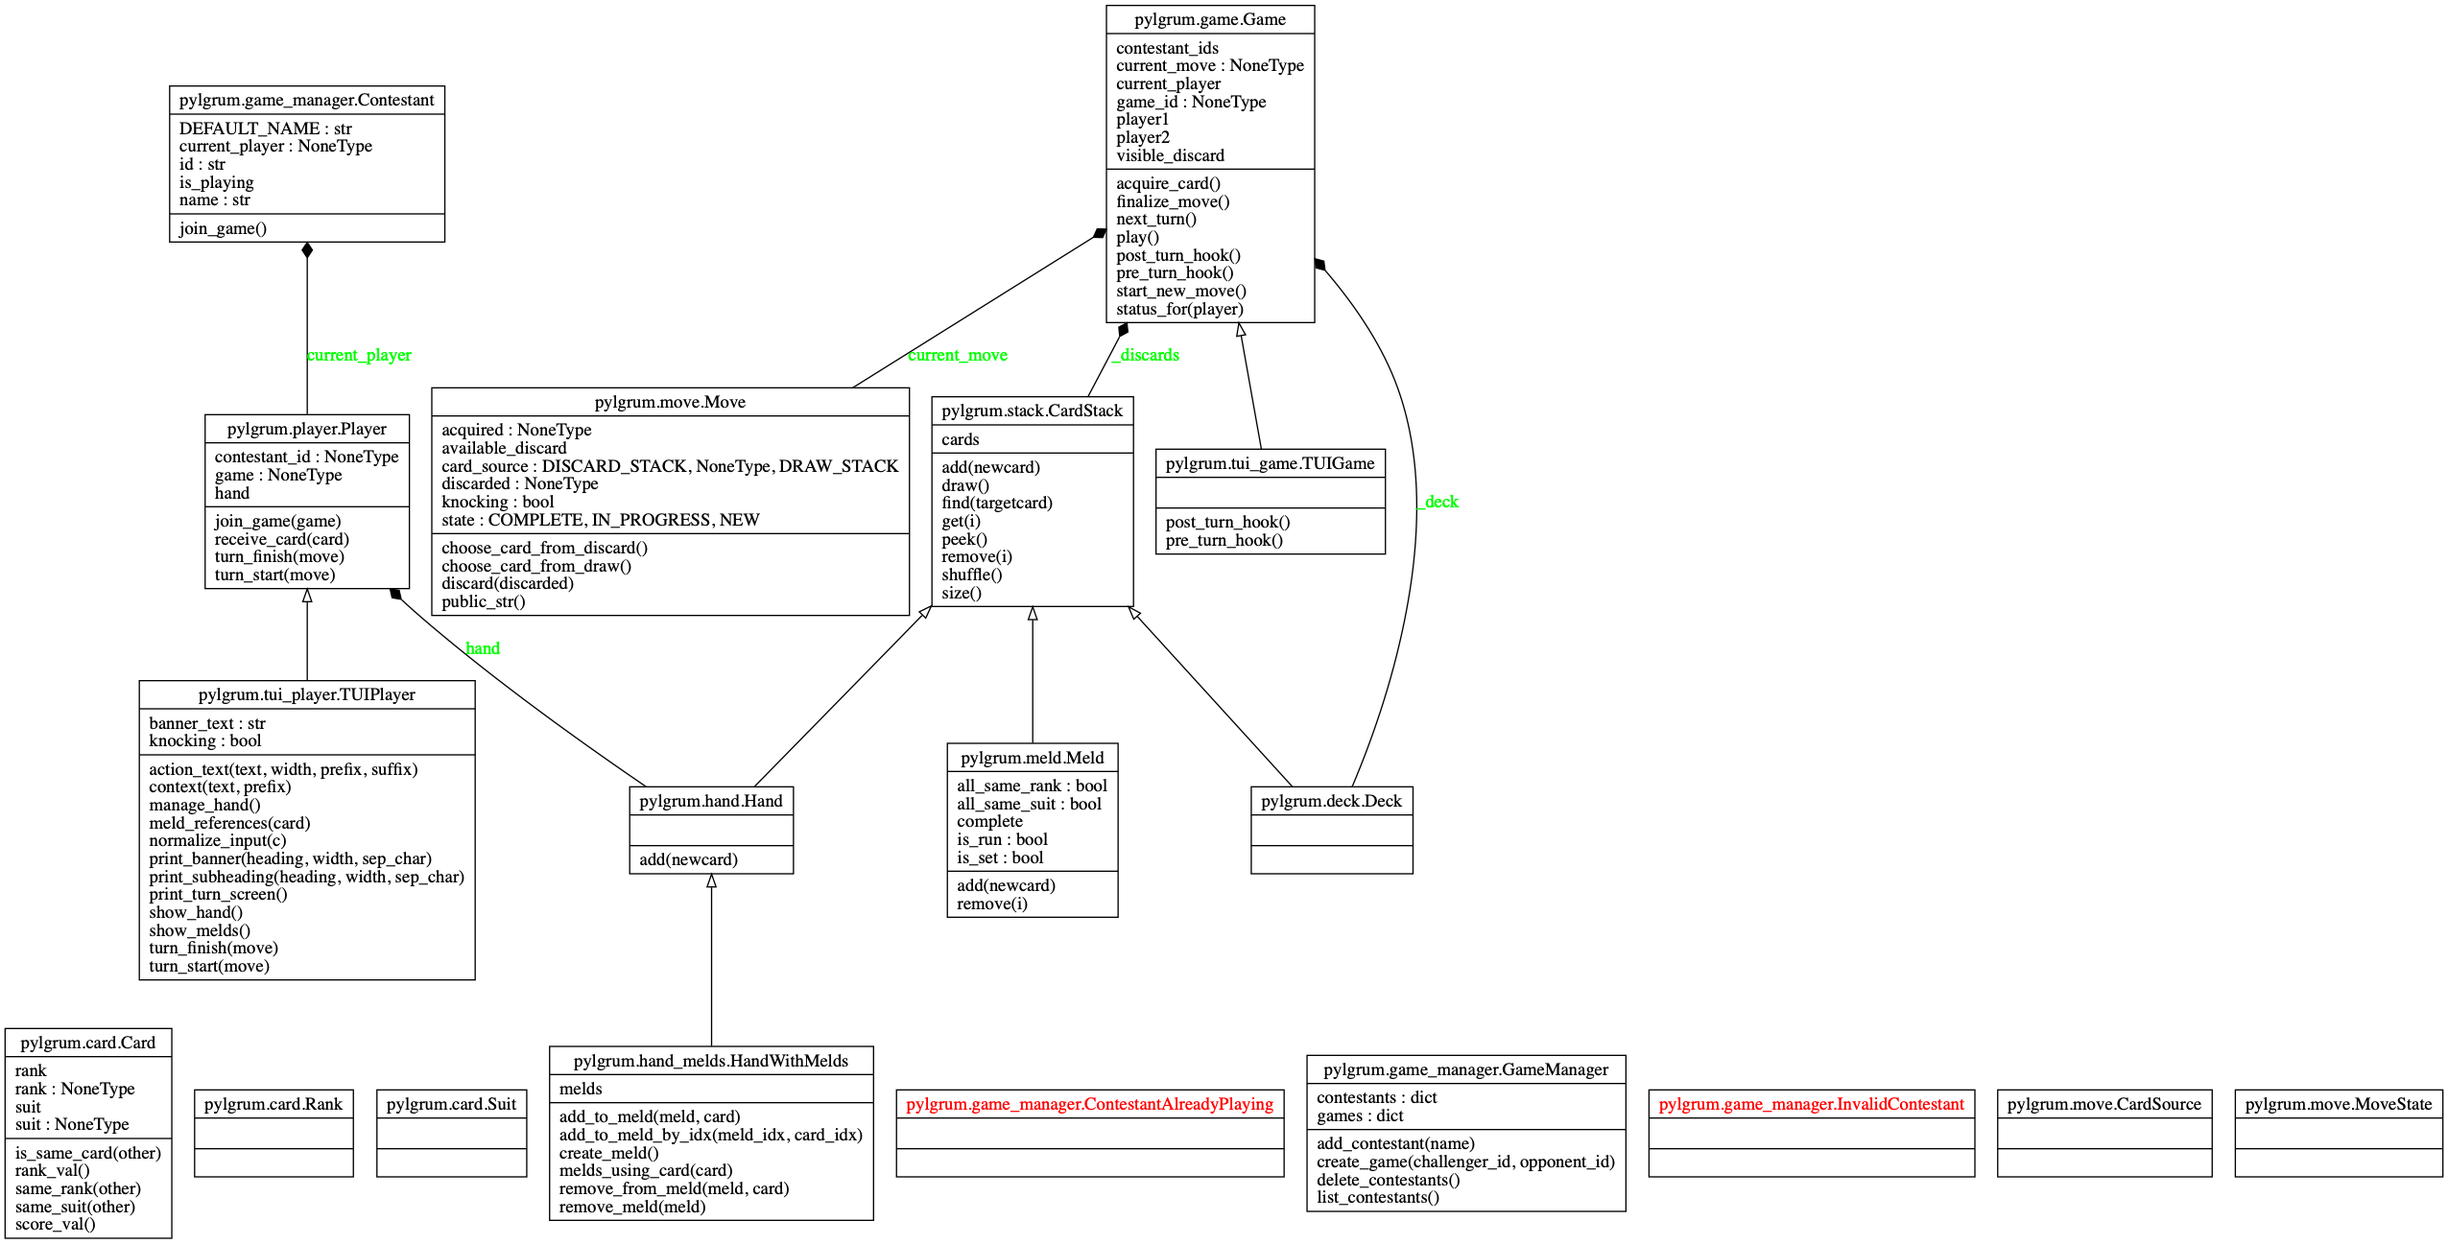
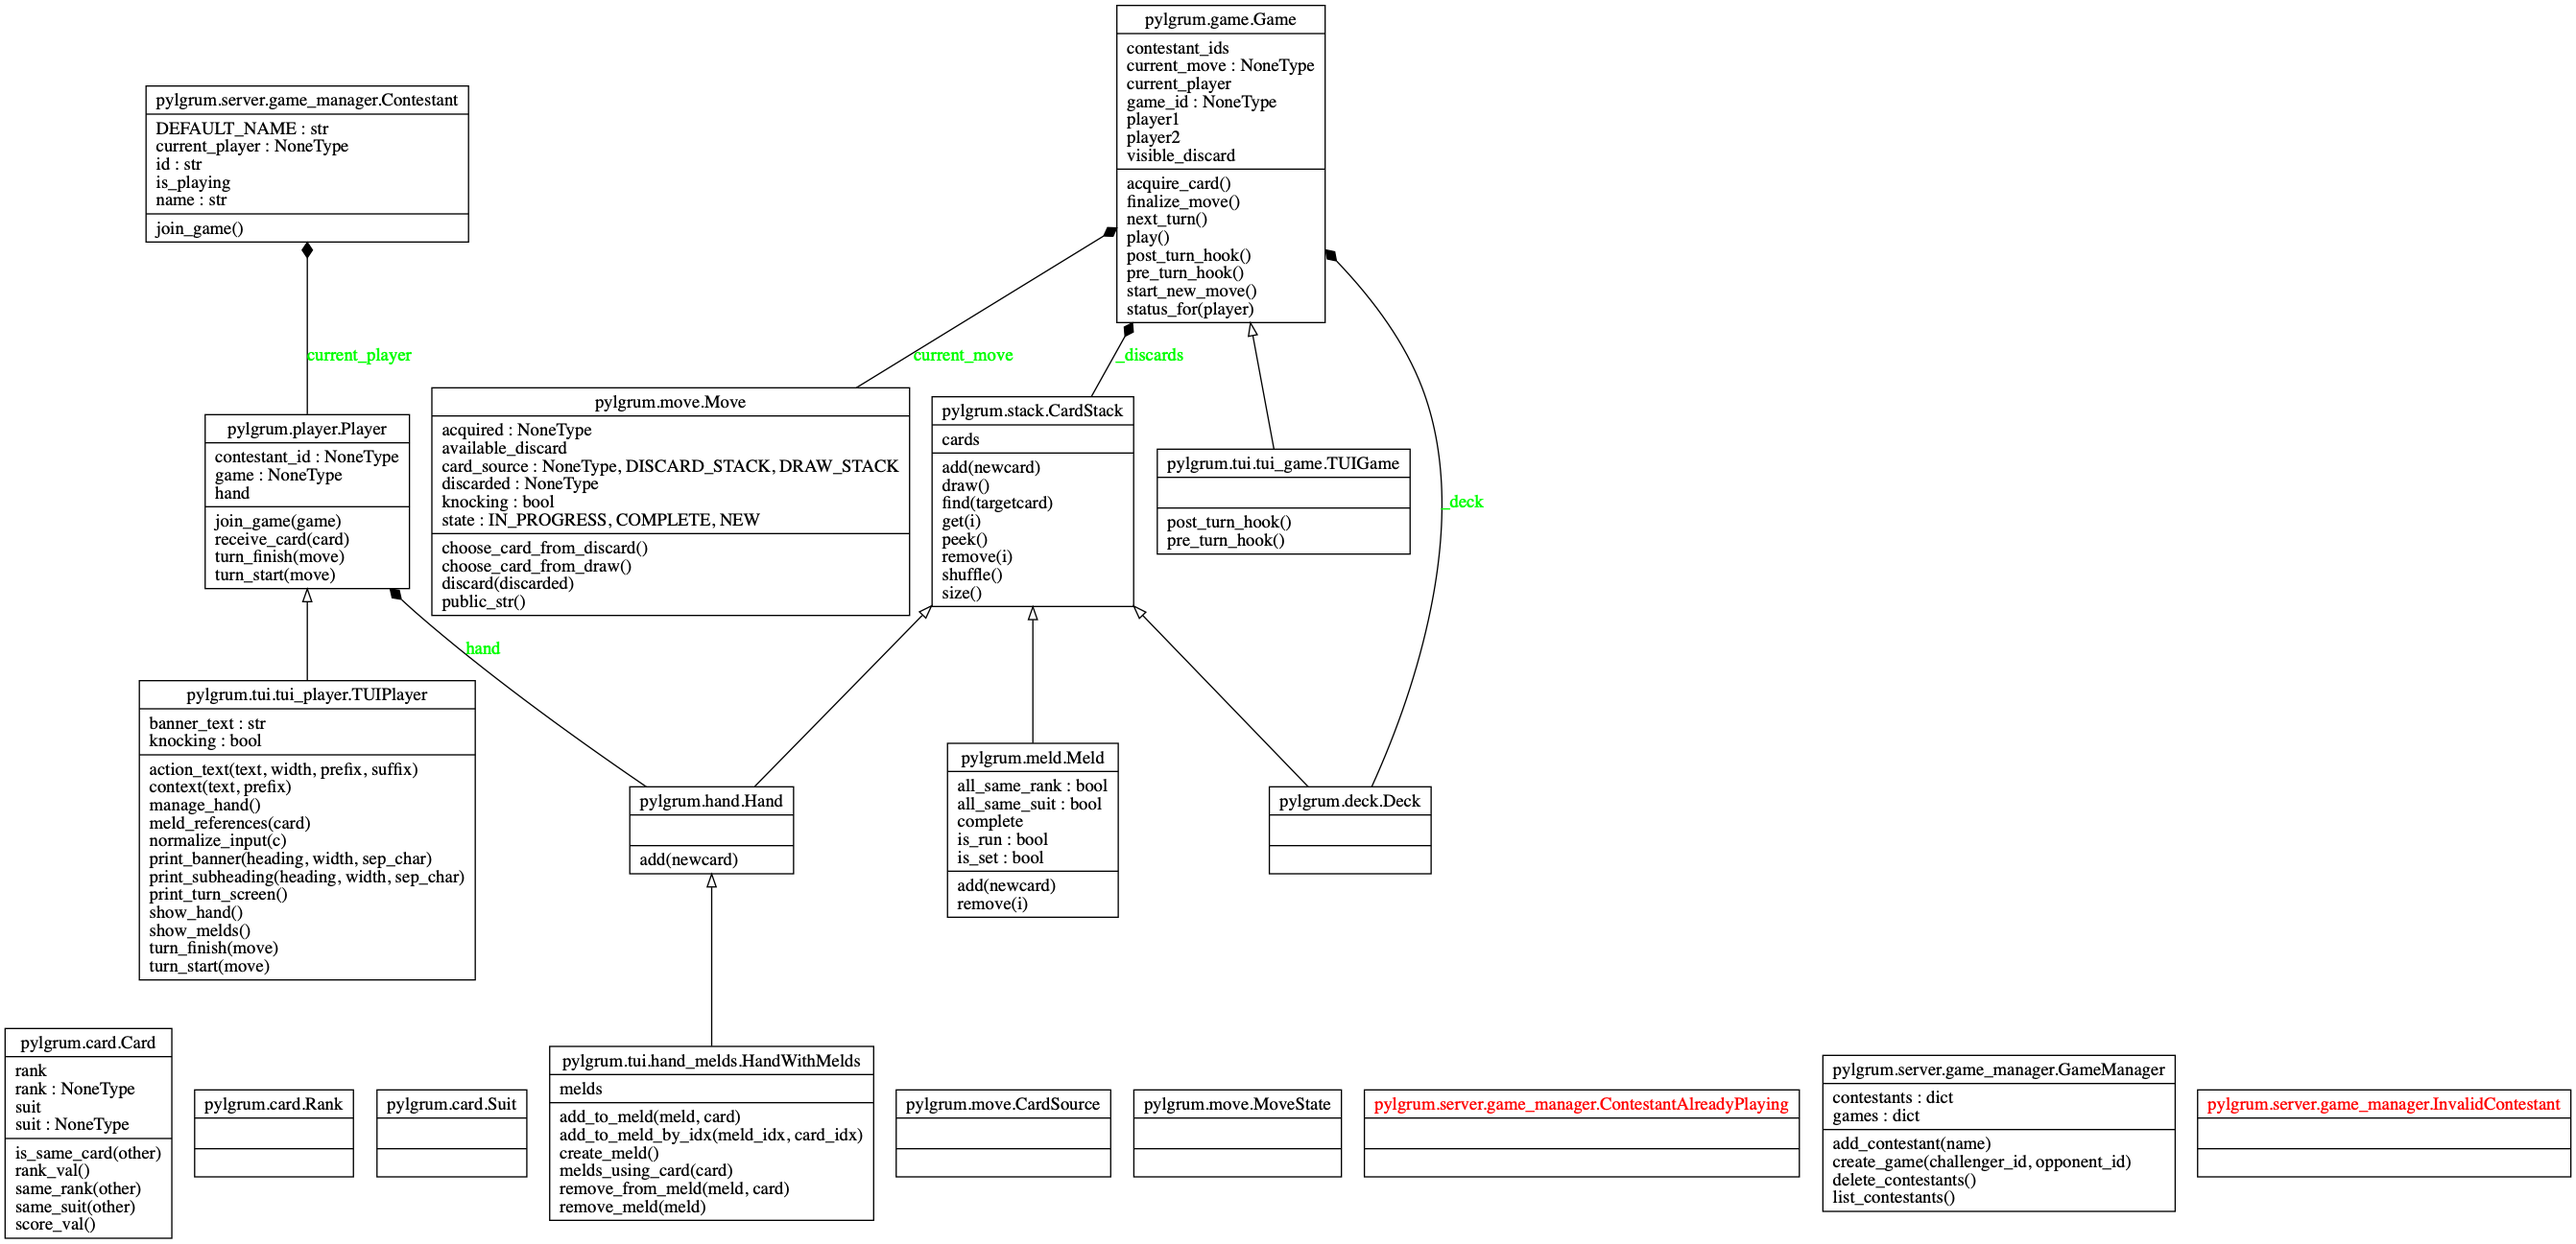
restructure into subpackages, clean up import convention

diff --git a/pylgrum/__init__.py b/pylgrum/__init__.py
@@ -25,23 +25,3 @@ Primary classes:
 Note: this package uses PEP-484 style type annotations, and thus needs
 python >=3.5.
 """
-
-#pylint: disable=wildcard-import
-from .card import *
-from .stack import *
-from .errors import *
-from .deck import *
-from .hand import *
-from .game import *
-from .player import *
-from .move import *
-from .meld import *
-from .hand_melds import *
-from .tui_player import *
-from .tui_game import *
-from .game_manager import *
-from .pylgrum_server import *
-
-__all__ = ['Suit', 'Rank', 'Card', 'CardStack', 'PylgrumError',
-           'CardNotFoundError', 'Deck', 'Player', 'Contestant',
-           'GameManager']

diff --git a/pylgrum/tui/tui_player.py b/pylgrum/tui/tui_player.py
@@ -1,8 +1,13 @@
 """Text UI (TUI) implementation of Gin Rummy player."""
 
-from pylgrum import Player, Hand, HandWithMelds, Card, Move, \
-    InvalidMeldError
-from pylgrum.tui_util import clear_screen
+from pylgrum.card import Card
+from pylgrum.hand import Hand
+from pylgrum.move import Move
+from pylgrum.player import Player
+from pylgrum.tui.hand_melds import HandWithMelds
+from pylgrum.errors import InvalidMeldError
+
+from pylgrum.tui.tui_util import clear_screen
 
 class TUIPlayer(Player):
     """Terminal-based interface for a human Gin Rummy player."""

diff --git a/pylgrum/tui/tui_game.py b/pylgrum/tui/tui_game.py
@@ -1,8 +1,9 @@
 """Text-mode game controller."""
 import time
 
-from pylgrum import Game, Player
-from pylgrum.tui_util import clear_screen
+from pylgrum.game import Game
+from pylgrum.player import Player
+from pylgrum.tui.tui_util import clear_screen
 
 DELAY = 0.25 # in seconds
 
@@ -32,4 +33,4 @@ class TUIGame(Game):
     def post_turn_hook(self):
         clear_screen()
         print("{}'s move:\n  {}".
-              format(self._current_player, self._current_move.public_str()))
+              format(self._current_player, self.current_move.public_str()))

diff --git a/pylgrum/game.py b/pylgrum/game.py
@@ -2,7 +2,12 @@
 
 from pylgrum.player import Player
 from pylgrum.move import Move, CardSource, MoveState
-from pylgrum import Deck, Card, CardStack, IllegalMoveError, PylgrumInternalError, CardNotFoundError
+from pylgrum.deck import Deck
+from pylgrum.card import Card
+from pylgrum.stack import CardStack
+from pylgrum.errors import IllegalMoveError, PylgrumInternalError, CardNotFoundError
+
+
 
 class Game():
     """Base class for a game of gin rummy."""

diff --git a/pylgrum/tui/hand_melds.py b/pylgrum/tui/hand_melds.py
@@ -1,6 +1,10 @@
 """Hand subclass that allows the user to arrange cards by potential meld."""
 
-from pylgrum import Hand, CardStack, Card, InvalidMeldError, Meld
+from pylgrum.card import Card
+from pylgrum.hand import Hand
+from pylgrum.stack import CardStack
+from pylgrum.meld import Meld
+from pylgrum.errors import InvalidMeldError
 
 class HandWithMelds(Hand):
     """Builds on Hand to track partial/complete melds within a hand.

diff --git a/pylgrum/meld.py b/pylgrum/meld.py
@@ -4,7 +4,9 @@ Notably, melds are always sorted by rank value, so unlike their ancestors in
 the CardStack class tree, do not behave like stacks in all regards.
 """
 
-from pylgrum import CardStack, Card, InvalidMeldError
+from pylgrum.card import Card
+from pylgrum.stack import CardStack
+from pylgrum.errors import InvalidMeldError
 
 class Meld(CardStack):
     """Referenceable data-structure to store melds and potential melds.

diff --git a/pylgrum/player.py b/pylgrum/player.py
@@ -1,8 +1,11 @@
 """One player in a game of GinRummy."""
 
+
+from pylgrum.card import Card
+from pylgrum.hand import Hand
 from pylgrum.move import Move
-from pylgrum import Hand, Card, PylgrumError, PylgrumInternalError
-from pylgrum import game
+from pylgrum.errors import PylgrumError, PylgrumInternalError
+# from pylgrum.game import Game
 
 class Player():
     """Abstract base class for a player in a Gin Rummy game.

diff --git a/pylgrum/tests/test_player.py b/pylgrum/tests/test_player.py
@@ -1,6 +1,9 @@
 import unittest
-from .context import Player, Hand, Card, Suit, Rank, OverdealtHandError,\
-    PylgrumInternalError, HandWithMelds
+from pylgrum.player import Player
+from pylgrum.card import Card, Suit, Rank
+from pylgrum.hand import Hand
+from pylgrum.errors import OverdealtHandError, PylgrumInternalError
+from pylgrum.tui.hand_melds import HandWithMelds
 
 class TestPlayer(unittest.TestCase):
 

diff --git a/pylgrum/server/tests/test_server.py b/pylgrum/server/tests/test_server.py
@@ -4,10 +4,10 @@ import uuid
 
 import connexion
 
-from .context import pylgrum_server
+from pylgrum.server import pylgrum_server
 
 flask_app = connexion.FlaskApp(__name__)
-flask_app.add_api('../openapi/openapi.yaml')
+flask_app.add_api('../../../openapi/openapi.yaml')
 
 def is_UUID(s: str) -> bool:
     """True if parameter looks like a valid UUID."""

diff --git a/pylgrum/tui/tests/test_hand_meld.py b/pylgrum/tui/tests/test_hand_meld.py
@@ -1,6 +1,9 @@
 import unittest
 from unittest import skip
-from .context import HandWithMelds, Card, Meld, Rank, Suit, InvalidMeldError
+from pylgrum.card import Card, Rank, Suit
+from pylgrum.meld import Meld
+from pylgrum.tui.hand_melds import HandWithMelds
+from pylgrum.errors import InvalidMeldError
 
 class TestHandWithMelds(unittest.TestCase):
 

diff --git a/pylgrum/server/pylgrum_server.py b/pylgrum/server/pylgrum_server.py
@@ -4,7 +4,11 @@ import json
 
 from functools import wraps
 
-from pylgrum import Player, Game, GameManager, Contestant, Card, Rank, Suit
+from pylgrum.card import Card, Rank, Suit
+from pylgrum.player import Player
+from pylgrum.game import Game
+from pylgrum.server.game_manager import GameManager, Contestant
+
 
 #### FIXME
 # - add auth

diff --git a/pylgrum/tests/test_move.py b/pylgrum/tests/test_move.py
@@ -1,7 +1,8 @@
 import unittest
 from unittest import skip
-from .context import Move, MoveState, CardSource, IllegalMoveError, Card, \
-    Rank, Suit
+from pylgrum.move import Move, MoveState, CardSource
+from pylgrum.card import Card, Rank, Suit
+from pylgrum.errors import IllegalMoveError
 
 class TestMove(unittest.TestCase):
 
